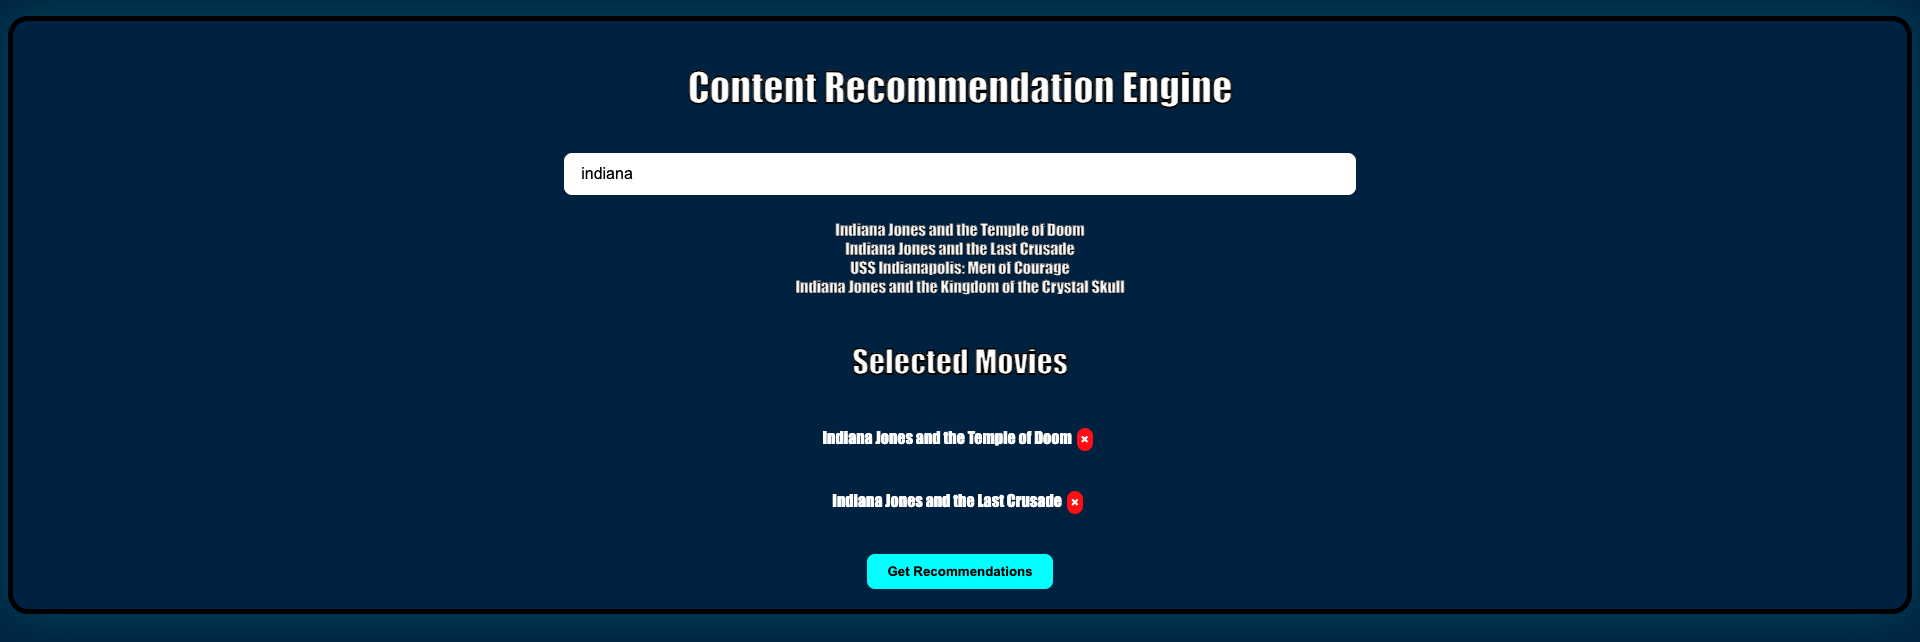
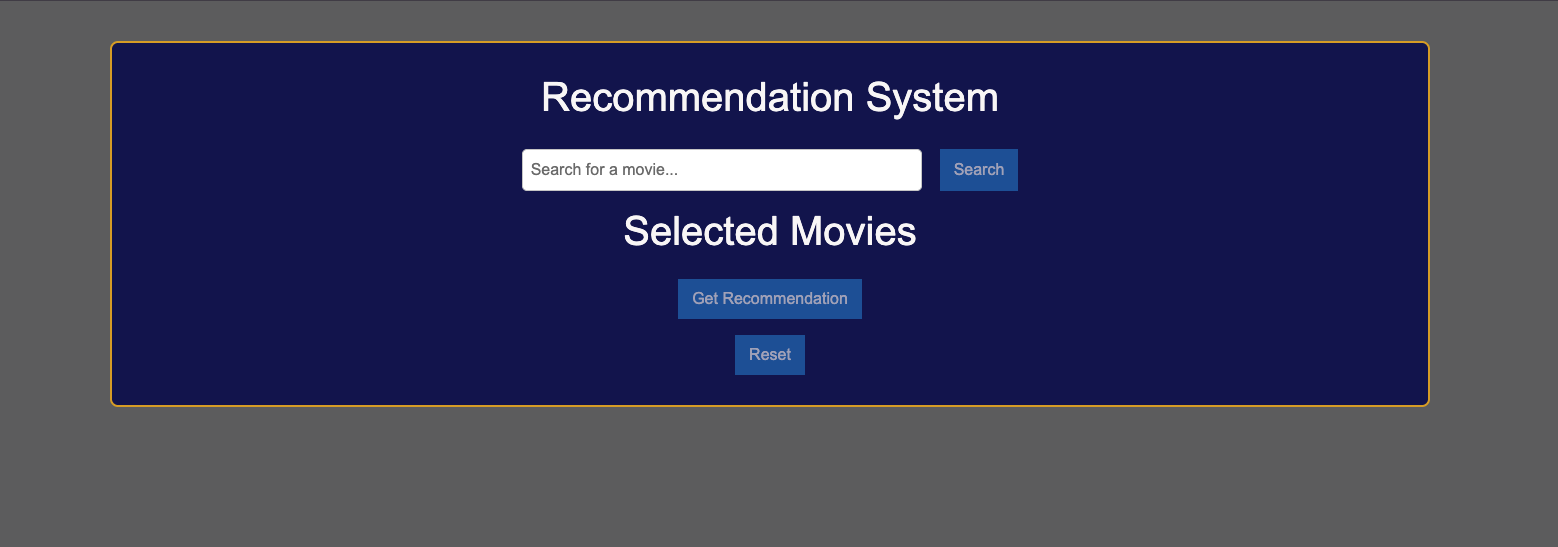
Add new event management platform image and update styles for project links layout

diff --git a/styles.css b/styles.css
@@ -69,3 +69,8 @@
 
     ul ul { margin-left: 20px; padding-left: 20px; }
     
+    .project-links {
+      display: flex;
+      gap: 12px;
+      margin-top: 8px;
+    }
